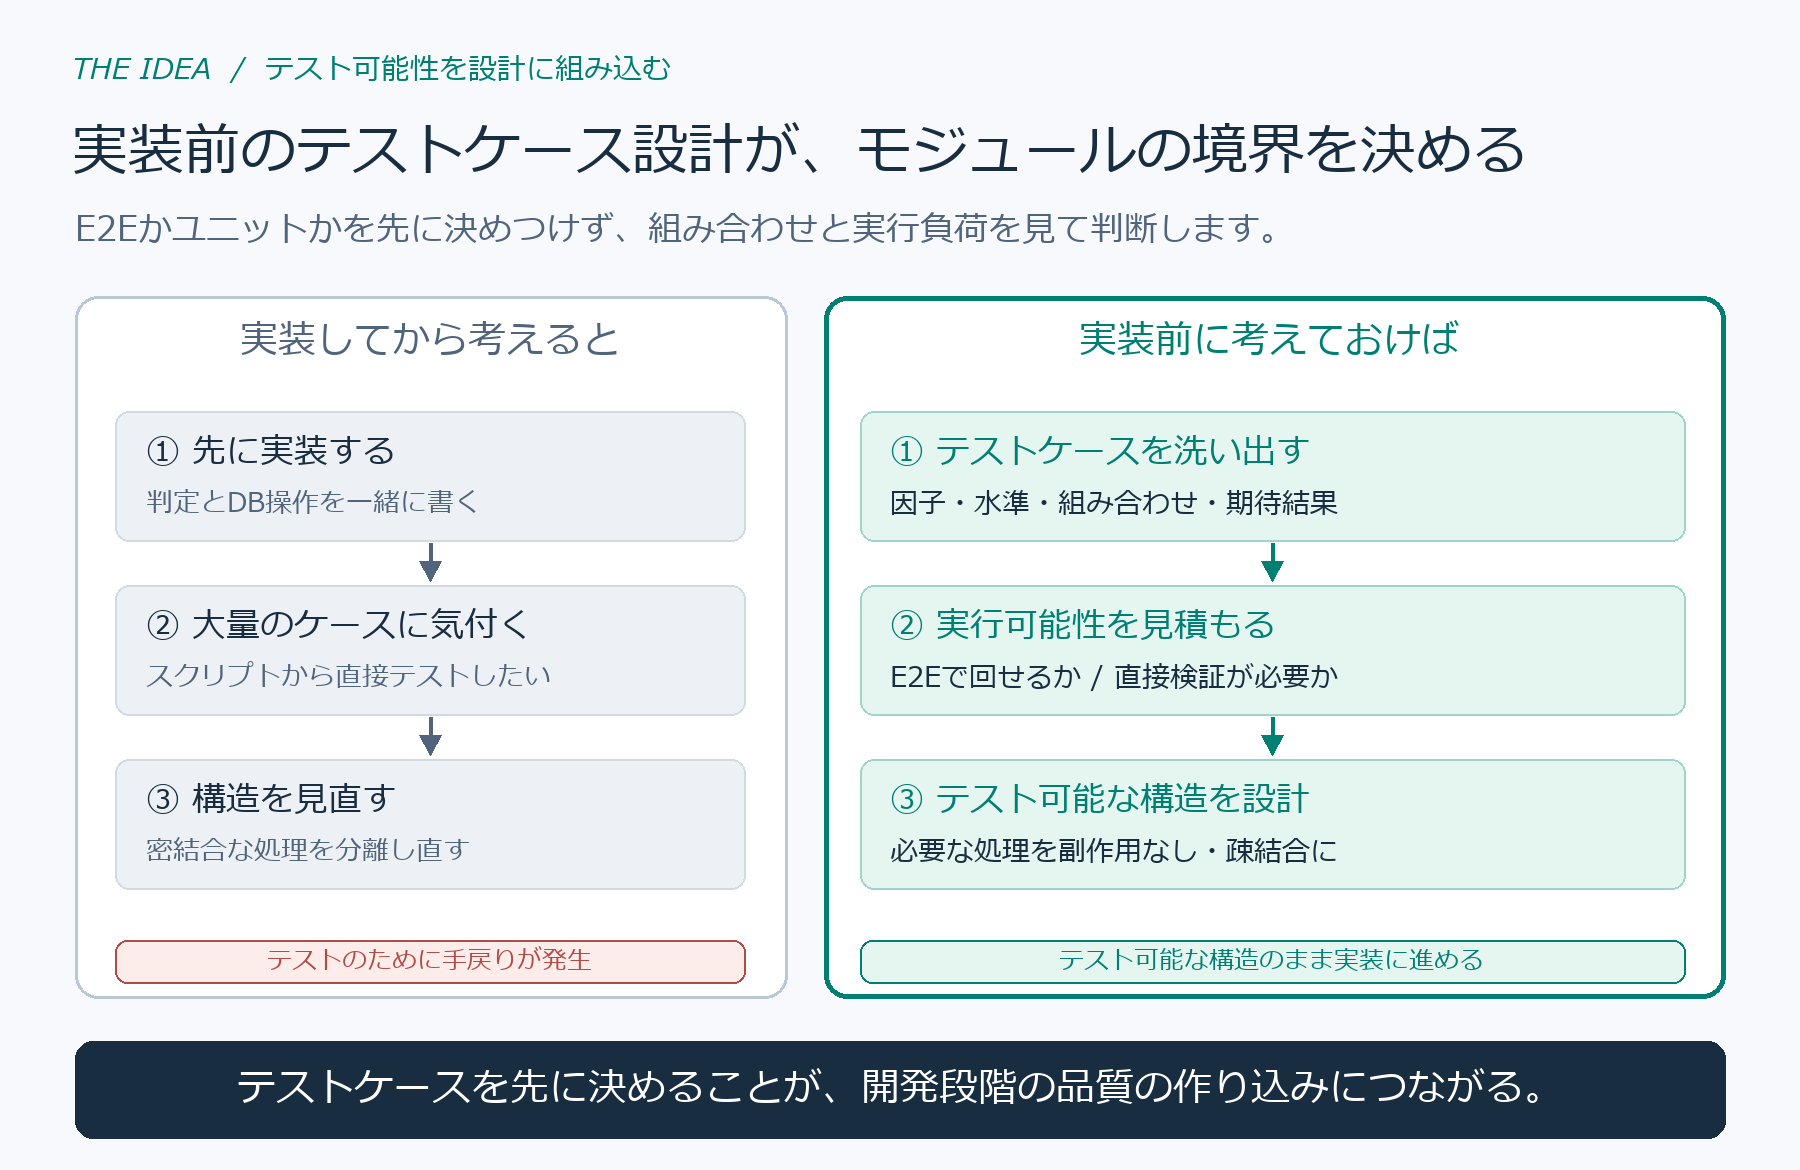
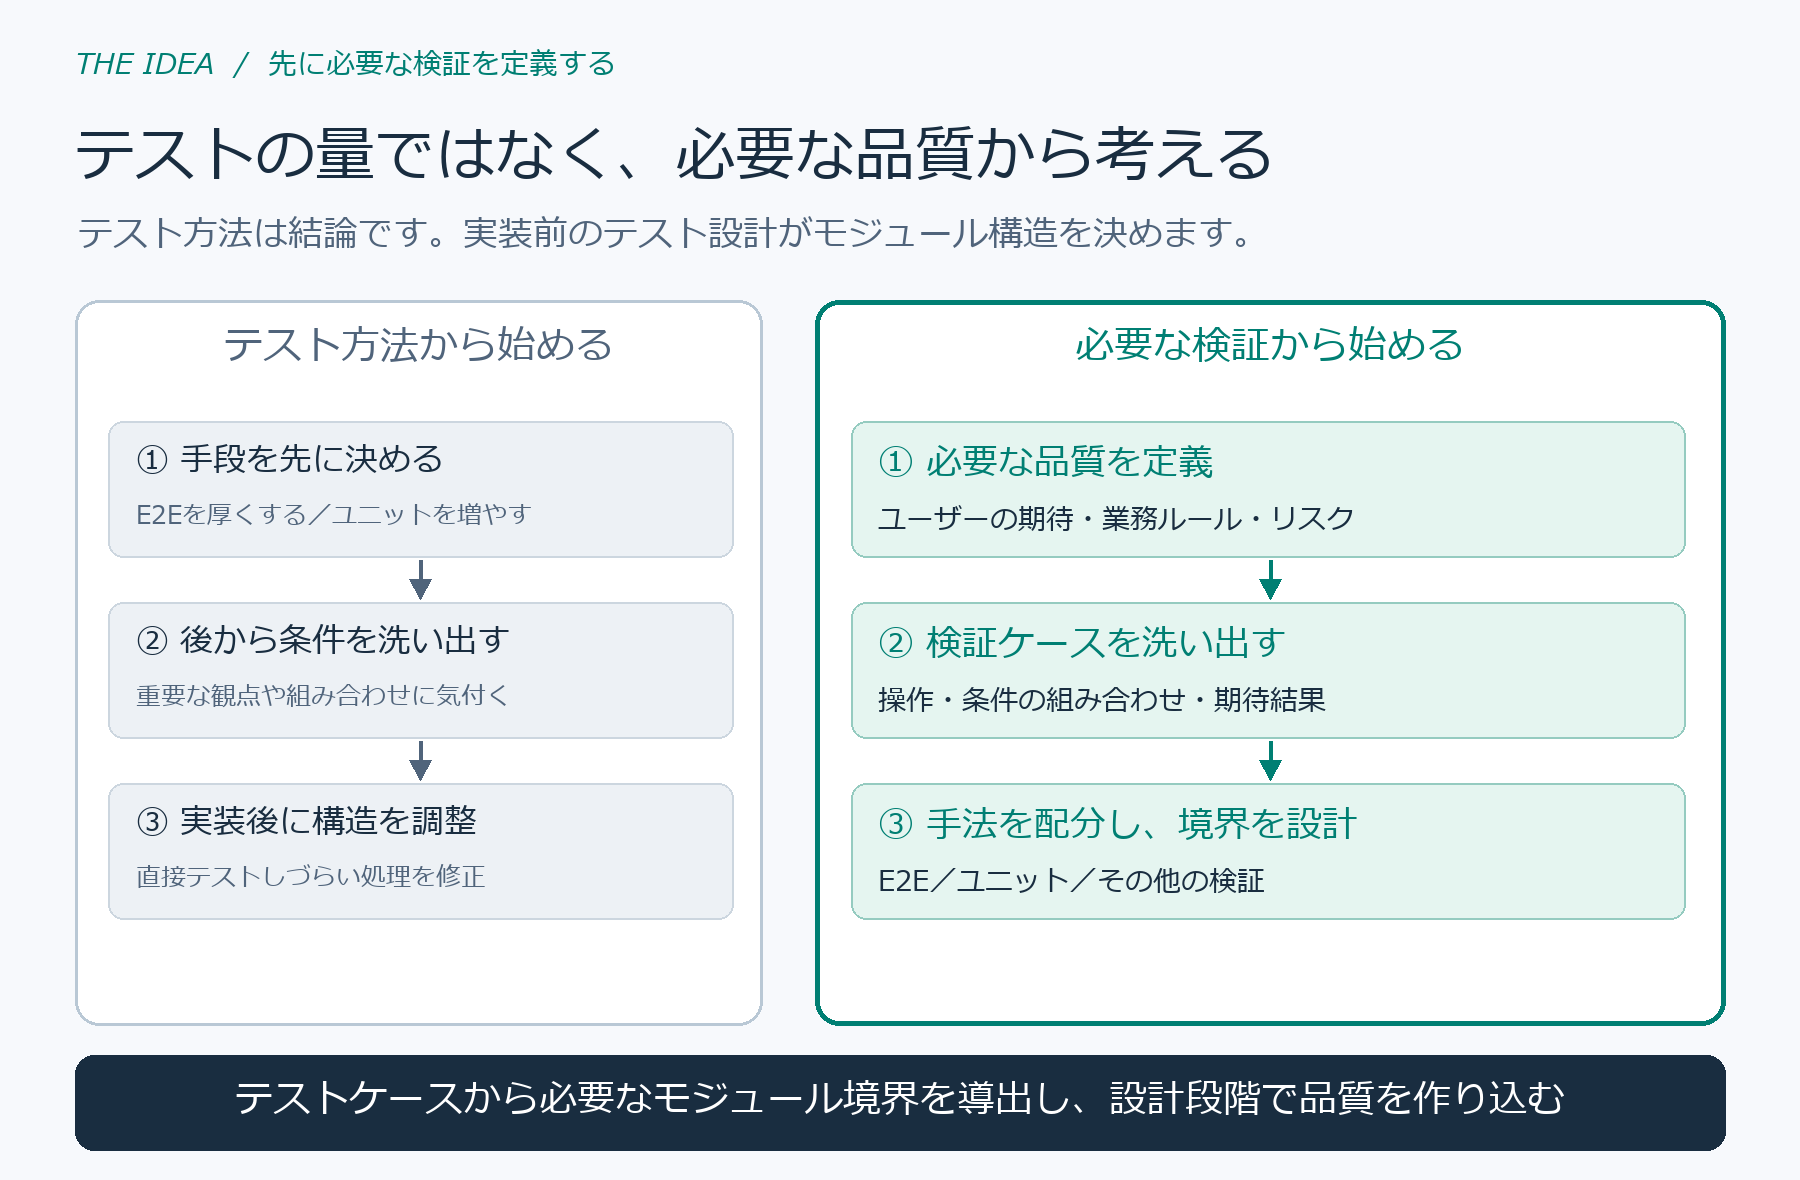
Focus Zenn article on required testing rather than E2E volume

Changed region(s): [[0.0311, 0.2462, 0.9644, 0.9538], [0.0311, 0.0308, 0.84, 0.1538], [0.0311, 0.1846, 0.7156, 0.2154]]

diff --git a/scripts/build-ai-era-test-diagrams.py b/scripts/build-ai-era-test-diagrams.py
@@ -50,92 +50,92 @@ def save(im,name):
     im.save(OUT/name,optimize=True)
     print(str(OUT/name),im.size)
 
-# 1) Why the order matters: design for testability BEFORE implementation.
-im,d=canvas(1800,1170)
-txt(d,(72,48),"THE IDEA  /  テスト可能性を設計に組み込む",29,TEAL,True)
-txt(d,(72,110),"実装前のテストケース設計が、モジュールの境界を決める",56,INK,True)
-txt(d,(75,204),"E2Eかユニットかを先に決めつけず、組み合わせと実行負荷を見て判断します。",34,SUB)
+# 1) Core proposal: start from required quality, not a test-level quota.
+im,d=canvas(1800,1180)
+txt(d,(75,43),"THE IDEA  /  先に必要な検証を定義する",29,TEAL,True)
+txt(d,(75,112),"テストの量ではなく、必要な品質から考える",60,INK,True)
+txt(d,(78,208),"テスト方法は結論です。実装前のテスト設計がモジュール構造を決めます。",35,SUB)
 
-rect(d,(75,296,787,998),WHITE,LINE,23,3)
-rect(d,(824,296,1725,998),WHITE,TEAL,23,5)
-center(d,430,341,"実装してから考えると",38,SUB,True)
-center(d,1269,341,"実装前に考えておけば",38,TEAL,True)
-
-for i,(label,desc) in enumerate([
-    ("① 先に実装する","判定とDB操作を一緒に書く"),
-    ("② 大量のケースに気付く","スクリプトから直接テストしたい"),
-    ("③ 構造を見直す","密結合な処理を分離し直す")
-]):
-    y=411+i*174
-    rect(d,(115,y,745,y+130),GRAY_L,"#D1D9E2",14,2)
-    txt(d,(146,y+15),label,34,INK,True)
-    txt(d,(146,y+72),desc,27,SUB)
-    if i<2: down(d,430,y+132,y+170,SUB,4)
-rect(d,(115,940,745,983),RED_L,RED,12,2)
-center(d,430,961,"テストのために手戻りが発生",25,RED,True)
+rect(d,(75,300,762,1025),WHITE,LINE,24,3)
+rect(d,(815,300,1725,1025),WHITE,TEAL,24,5)
+center(d,419,347,"テスト方法から始める",39,SUB,True)
+center(d,1270,347,"必要な検証から始める",39,TEAL,True)
 
 for i,(label,desc) in enumerate([
-    ("① テストケースを洗い出す","因子・水準・組み合わせ・期待結果"),
-    ("② 実行可能性を見積もる","E2Eで回せるか / 直接検証が必要か"),
-    ("③ テスト可能な構造を設計","必要な処理を副作用なし・疎結合に")
+    ("① 手段を先に決める","E2Eを厚くする／ユニットを増やす"),
+    ("② 後から条件を洗い出す","重要な観点や組み合わせに気付く"),
+    ("③ 実装後に構造を調整","直接テストしづらい処理を修正"),
 ]):
-    y=411+i*174
-    rect(d,(860,y,1685,y+130),TEAL_L,"#A0D4C8",14,2)
-    txt(d,(890,y+15),label,34,TEAL,True)
-    txt(d,(890,y+72),desc,28,INK)
-    if i<2: down(d,1272,y+132,y+170,TEAL,4)
-rect(d,(860,940,1685,983),TEAL_L,TEAL,12,2)
-center(d,1272,961,"テスト可能な構造のまま実装に進める",25,TEAL,True)
+    y=421+i*181
+    rect(d,(108,y,733,y+136),GRAY_L,"#CCD6DF",15,2)
+    txt(d,(136,y+15),label,33,INK,True)
+    txt(d,(136,y+76),desc,25,SUB)
+    if i<2:down(d,420,y+139,y+178,SUB,4)
 
-rect(d,(75,1041,1725,1138),INK,INK,18)
-center(d,900,1089,"テストケースを先に決めることが、開発段階の品質の作り込みにつながる。",39,WHITE,True)
+for i,(label,desc) in enumerate([
+    ("① 必要な品質を定義","ユーザーの期待・業務ルール・リスク"),
+    ("② 検証ケースを洗い出す","操作・条件の組み合わせ・期待結果"),
+    ("③ 手法を配分し、境界を設計","E2E／ユニット／その他の検証"),
+]):
+    y=421+i*181
+    rect(d,(851,y,1685,y+136),TEAL_L,"#95CBC0",15,2)
+    txt(d,(878,y+15),label,36,TEAL,True)
+    txt(d,(878,y+78),desc,28,INK)
+    if i<2:down(d,1270,y+139,y+178,TEAL,4)
+rect(d,(75,1055,1725,1150),INK,INK,19)
+center(d,900,1100,"テストケースから必要なモジュール境界を導出し、設計段階で品質を作り込む",38,WHITE,True)
 save(im,"hero.png")
 
-# 2) Pre-implementation DESIGN ONLY: no test execution steps appear in this flow.
-im,d=canvas(1800,1710)
-txt(d,(80,45),"DESIGN FLOW  /  実装前に決めること",30,TEAL,True)
-txt(d,(80,110),"テストケースの配分から、モジュール設計まで",61,INK,True)
-txt(d,(80,206),"この図は設計工程です。テストの実装や実行は、この後に行います。",34,SUB)
+# 2) Flowchart, DESIGN PHASE ONLY. Selection is driven by required tests.
+im,d=canvas(1800,1700)
+txt(d,(80,52),"DESIGN FLOW  /  実装前に決める",29,TEAL,True)
+txt(d,(80,115),"必要な検証から、テスト可能な設計へ",64,INK,True)
+txt(d,(80,210),"E2E・ユニット・その他を目的と負荷で選び、必要な境界だけを設計します。",33,SUB)
+rect(d,(355,305,1445,435),WHITE,LINE,19)
+center(d,900,348,"STEP 1  /  必要な品質とリスク",29,BLUE,True)
+center(d,900,401,"受入条件・操作・非機能・重要なリスクを整理",34,INK,True)
+down(d,900,436,487,BLUE)
 
-rect(d,(360,304,1440,426),WHITE,LINE,19)
-center(d,900,345,"STEP 1  /  テストケース設計",29,BLUE,True)
-center(d,900,394,"ユーザー操作・UX・受入条件と期待結果を整理",34,INK,True)
-down(d,900,428,477,BLUE)
-rect(d,(360,489,1440,615),WHITE,LINE,19)
-center(d,900,528,"STEP 2  /  因子と組み合わせを洗い出す",29,BLUE,True)
-center(d,900,581,"条件数・想定実行時間・データ準備の負荷を見積もる",32,INK,True)
-down(d,900,617,677,BLUE)
+rect(d,(355,497,1445,627),WHITE,LINE,19)
+center(d,900,538,"STEP 2  /  テストケースと期待結果",29,BLUE,True)
+center(d,900,594,"条件・組み合わせ・境界値・確認方法を洗い出す",33,INK,True)
+down(d,900,629,680,BLUE)
 
-d.polygon([(900,681),(1240,808),(900,935),(560,808)],fill=BLUE_L)
-line(d,[(900,681),(1240,808),(900,935),(560,808),(900,681)],BLUE,5)
-center(d,900,778,"E2Eで現実的に",37,BLUE,True)
-center(d,900,828,"実行できる？",37,BLUE,True)
-line(d,[(560,808),(438,808),(438,980)],BLUE,5)
-down(d,438,977,1002,BLUE)
-center(d,388,771,"YES",30,BLUE,True)
-line(d,[(1240,808),(1360,808),(1360,980)],AMBER,5)
-down(d,1360,977,1002,AMBER)
-center(d,1408,771,"NO",30,AMBER,True)
+rect(d,(275,692,1525,938),BLUE_L,"#98B2E5",19,3)
+center(d,900,741,"STEP 3  /  テスト方法と実行負荷を比較",33,BLUE,True)
+for i,(kind,desc) in enumerate([
+    ("E2E","操作・連携の確認"),
+    ("ユニット","大量の条件判定"),
+    ("その他","性能・UX・安全性"),
+]):
+    x=315+i*405
+    rect(d,(x,801,x+380,903),WHITE,"#B6C7DF",14,2)
+    center(d,x+190,829,kind,30,INK,True)
+    center(d,x+190,879,desc,24,SUB)
+down(d,900,939,996,BLUE)
 
-rect(d,(90,1014,790,1221),BLUE_L,"#A6B7E8",21)
-center(d,440,1057,"E2Eのテストケースを確定",36,BLUE,True)
-center(d,440,1123,"画面操作・UX・API・DB連携",29,INK,True)
-center(d,440,1179,"対象ケースと期待結果を設計",29,SUB)
-rect(d,(1008,1014,1710,1221),"#FFF3D7","#E2B968",21)
-center(d,1359,1057,"非E2Eの対象ケースを確定",35,AMBER,True)
-center(d,1359,1123,"大量パターンの組み合わせ",30,INK,True)
-center(d,1359,1179,"直接入力するケースと期待結果を設計",27,SUB)
-down(d,1359,1223,1270,AMBER)
+d.polygon([(900,1010),(1260,1119),(900,1228),(540,1119)],fill=TEAL_L)
+line(d,[(900,1010),(1260,1119),(900,1228),(540,1119),(900,1010)],TEAL,5)
+center(d,900,1091,"直接テスト用の",34,TEAL,True)
+center(d,900,1139,"独立モジュールが必要？",32,TEAL,True)
 
-rect(d,(1008,1282,1710,1469),TEAL_L,"#8DC9BE",21)
-center(d,1359,1330,"STEP 3  /  テスト可能なモジュール設計",29,TEAL,True)
-center(d,1359,1388,"副作用なし・疎結合の境界を定義",31,INK,True)
-center(d,1359,1433,"入力・出力・責務を決定",27,SUB)
-line(d,[(440,1222),(440,1584),(890,1584)],BLUE,5)
-line(d,[(1359,1471),(1359,1551),(890,1551)],TEAL,5)
-down(d,890,1551,1584,TEAL)
-rect(d,(320,1600,1720,1681),INK,INK,18)
-center(d,1020,1641,"設計完了：E2E・非E2Eのケース配分とモジュール構造が確定",33,WHITE,True)
+line(d,[(540,1119),(415,1119),(415,1273)],BLUE,5)
+down(d,415,1270,1296,BLUE)
+center(d,378,1081,"NO",27,BLUE,True)
+line(d,[(1260,1119),(1387,1119),(1387,1273)],TEAL,5)
+down(d,1387,1270,1296,TEAL)
+center(d,1420,1081,"YES",27,TEAL,True)
+rect(d,(93,1308,765,1480),BLUE_L,"#9BAFE0",19)
+center(d,430,1360,"既存の構造で検証",36,BLUE,True)
+center(d,430,1422,"追加の分離は不要",30,INK)
+rect(d,(1040,1308,1715,1480),TEAL_L,"#87C5BA",19)
+center(d,1377,1360,"モジュール境界を設計",36,TEAL,True)
+center(d,1377,1422,"責務・入出力・依存を決める",27,INK)
+line(d,[(430,1482),(430,1572),(903,1572)],BLUE,5)
+line(d,[(1377,1482),(1377,1545),(903,1545)],TEAL,5)
+down(d,903,1545,1575,TEAL)
+rect(d,(330,1595,1715,1676),INK,INK,18)
+center(d,1022,1635,"設計完了：必要なテストと実装構造が決まった状態",36,WHITE,True)
 save(im,"workflow.png")
 
 # 3) Case map: every cell corresponds to 1 exact combination.
